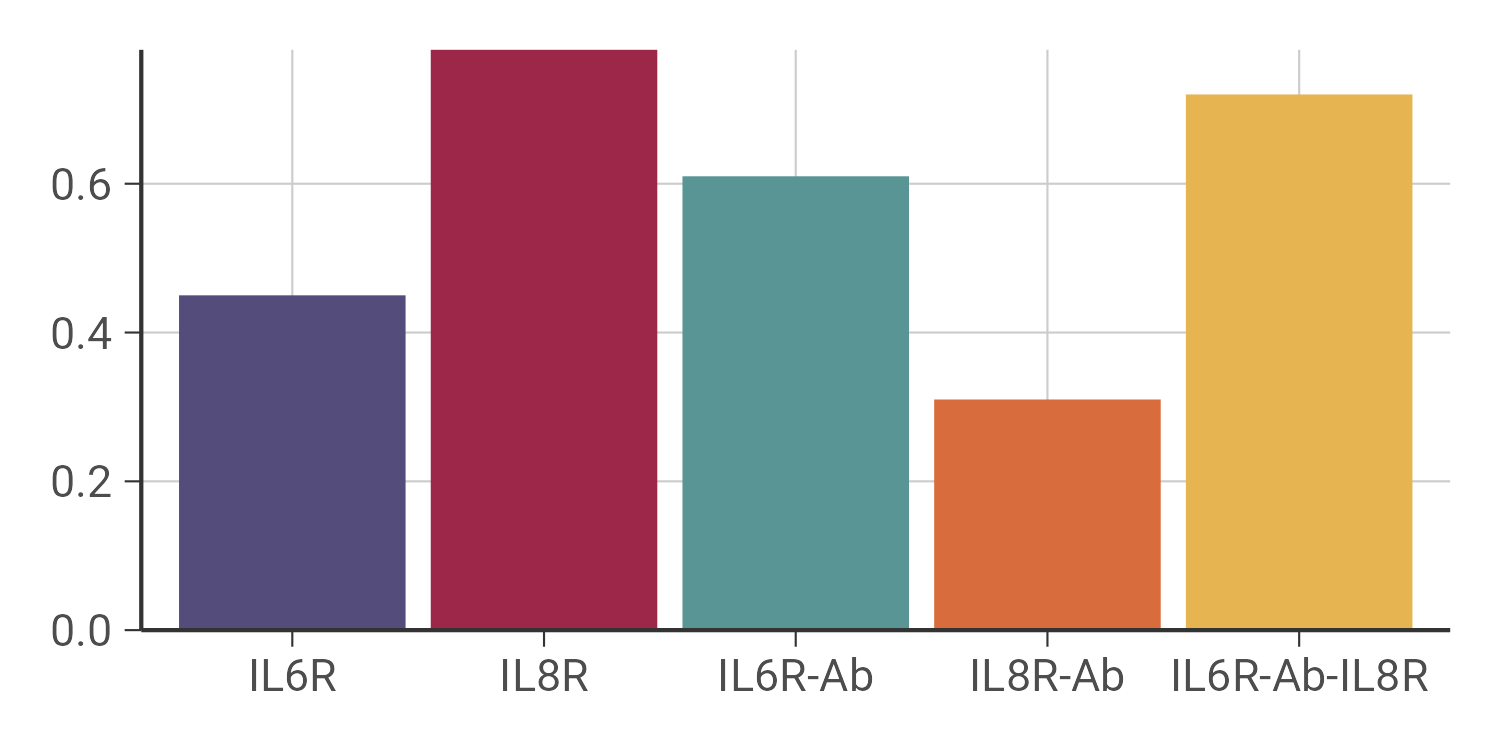
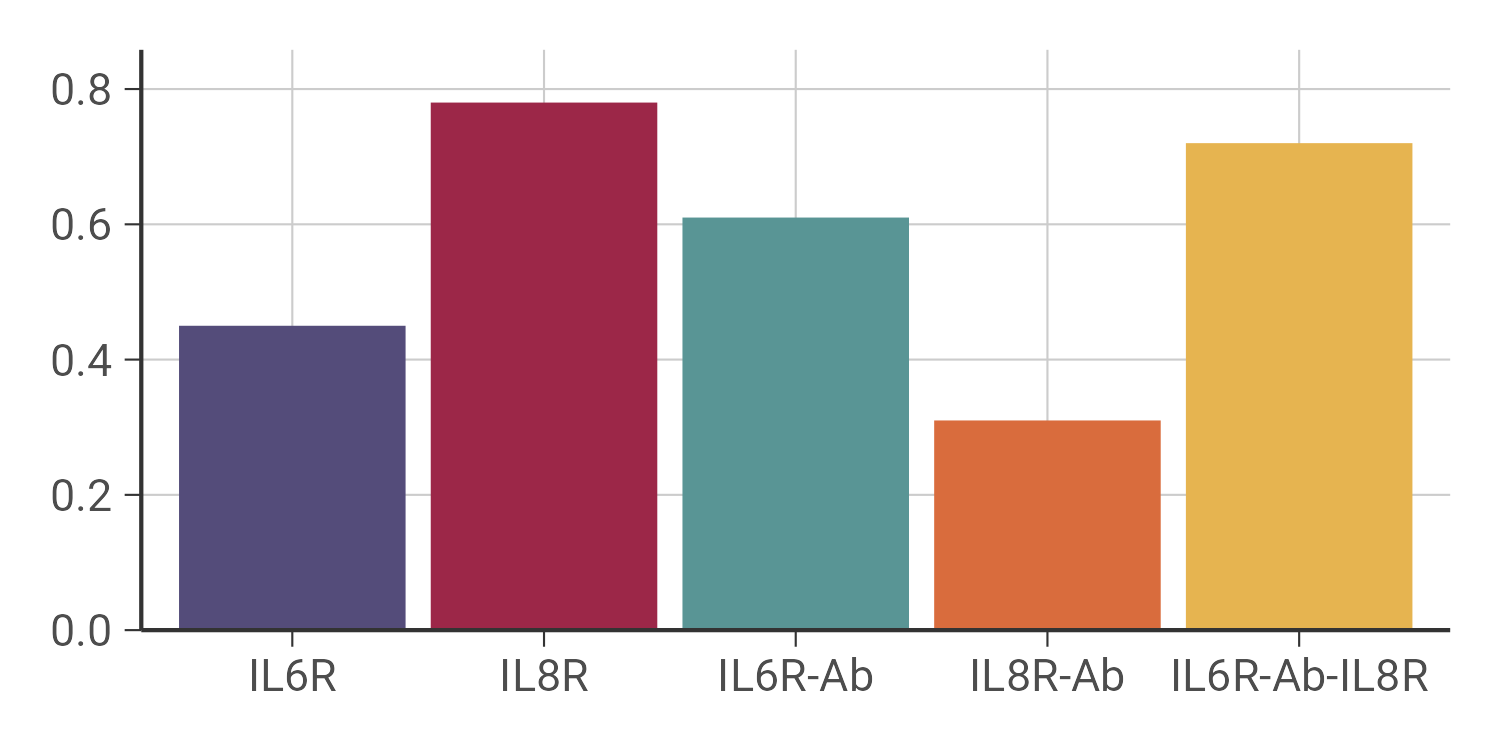
Convenience function for no space between plot and axes
Changes
- Added `expand0()` as a wrapper to `expansion(mult = c(0,0))` for removing all space between the plot and the axes
- Added a test case for the new function

diff --git a/README.md b/README.md
@@ -64,7 +64,7 @@ df <- data.frame(
     y = c(0.45, 0.78, 0.61, 0.31, 0.72))
 p <- ggplot(df, aes(x, y, fill = x)) +
   geom_col(show.legend = FALSE) +
-  scale_y_continuous(expand = expansion(mult = 0)) +
+  scale_y_continuous(expand = expand1()) +
   scale_fill_cr(palette = "receptors", species = unique(df$x)) +
   labs(x = NULL, y = NULL) +
   theme_cr()
